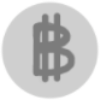
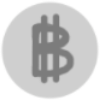
SilverCoin and GoldCoin image update

diff --git a/src/model/money/GoldCoin.java b/src/model/money/GoldCoin.java
@@ -7,7 +7,7 @@ import properties.Renderable;
 
 public class GoldCoin extends Money implements Renderable{
 	
-	private Image GoldCoinImage = new Image(ClassLoader.getSystemResource("SilverCoin.png").toString());
+	private Image GoldCoinImage = new Image(ClassLoader.getSystemResource("GoldCoin.png").toString());
 
 	public GoldCoin(String name, double posX, double posY) {
 		super(name, posX, posY);
